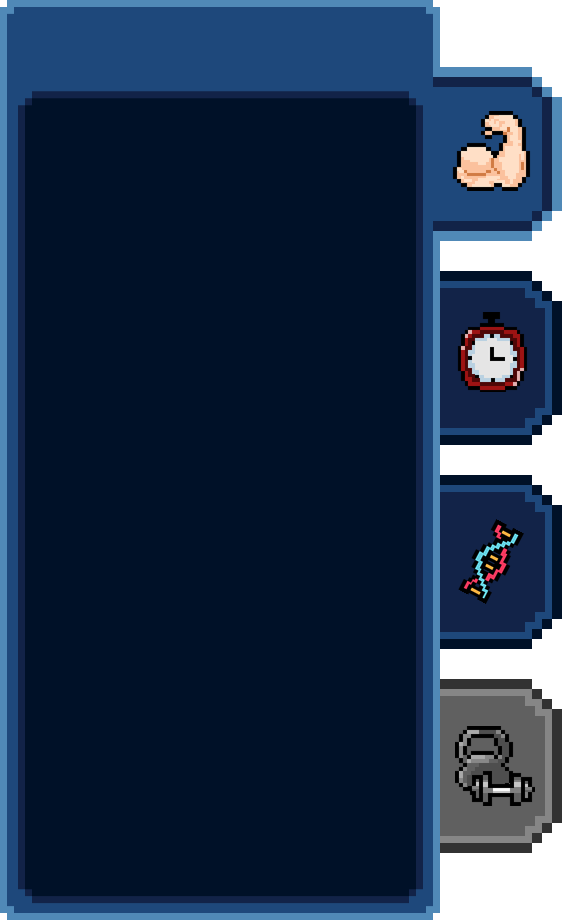
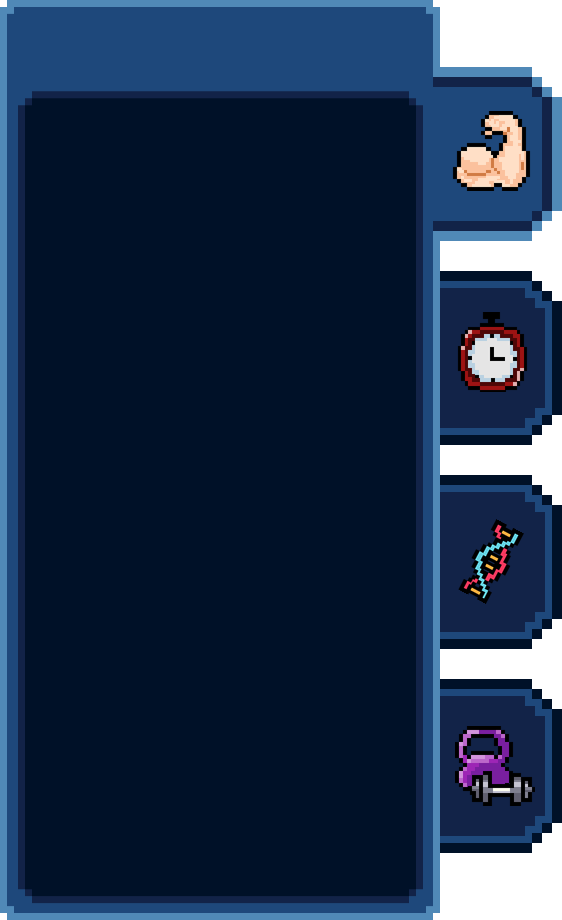
passive skill buy setup

Changed region(s): [[0.7562, 0.7304, 1.0, 0.9435]]

diff --git a/Assets/Scripts/UIController.cs b/Assets/Scripts/UIController.cs
@@ -167,6 +167,7 @@ public class UIController : MonoBehaviour
         {
             upgradeSection.RemoveFromClassList("idleActive");
             upgradeSection.RemoveFromClassList("resetActive");
+            upgradeSection.RemoveFromClassList("passiveActive");
             upgradeSection.AddToClassList("clickActive");
             upgradeSectionLabel.text = "Click Upgrades";
 
@@ -178,6 +179,7 @@ public class UIController : MonoBehaviour
         {
             upgradeSection.RemoveFromClassList("resetActive");
             upgradeSection.RemoveFromClassList("clickActive");
+            upgradeSection.RemoveFromClassList("passiveActive");
             upgradeSection.AddToClassList("idleActive");
             upgradeSectionLabel.text = "Idle Upgrades";
 
@@ -189,11 +191,24 @@ public class UIController : MonoBehaviour
         {
             upgradeSection.RemoveFromClassList("idleActive");
             upgradeSection.RemoveFromClassList("clickActive");
+            upgradeSection.RemoveFromClassList("passiveActive");
             upgradeSection.AddToClassList("resetActive");
             upgradeSectionLabel.text = "Reset Upgrades";
 
             ToggleUpgradePanel("reset");
             ShowScrollView(resetScrollView);
+        };
+
+        passiveSkillButton.clicked += () =>
+        {
+            upgradeSection.RemoveFromClassList("idleActive");
+            upgradeSection.RemoveFromClassList("clickActive");
+            upgradeSection.RemoveFromClassList("resetActive");
+            upgradeSection.AddToClassList("passiveActive");
+            upgradeSectionLabel.text = "Passive Skills";
+
+            ToggleUpgradePanel("passive");
+            ShowScrollView(passiveScrollView);
         };
 
         animatedLabel = root.Q<Label>("gain-label");
@@ -510,7 +525,7 @@ public class UIController : MonoBehaviour
 
     private RevealStage GetCurrentStage()
     {
-        if (resetCoin.Value > 0)
+        if (gameController.GetResetStage() >= 3)
         {
             return RevealStage.PassiveSkillUpgrades;
         }
@@ -899,9 +914,10 @@ public class UIController : MonoBehaviour
             {
                 Button = button,
                 PassiveSkill = passiveSkill,
+                Cost = passiveSkill.Price
             };
 
-            Label priceLabel = new Label() { name = "price" };
+            Label priceLabel = new Label() { name = "price", text = buttonInfo.Cost.ToString() };
             VisualElement details = new VisualElement() { name = "detailsPopup" };
 
             //skill's icon
@@ -1019,11 +1035,16 @@ public class UIController : MonoBehaviour
 
     private void PassiveSkillButtonClicked(ClickEvent clickEvent, UpgradeButtonInfo upgradeButtonInfo)
     {
-        //PassiveSkillBought derails = new()
-        //{
-        //    PassiveSkill = upgradeButtonInfo.PassiveSkill
-        //};
-        //passiveSkillBoughtEvent.Raise(details);
+        PassiveSkillBought details = new()
+        {
+            PassiveSkill = upgradeButtonInfo.PassiveSkill
+        };
+
+        passiveSkillBoughtEvent.Raise(details);
+        resetCoinLabel.text = $"{NumberFormatter.FormatNumber(resetCoin.Value)}";
+        //audioController.PlaySound(SfxType.PassiveSkillBuy);                                      -->SFX needed
+
+        passiveScrollView.contentContainer.Remove(upgradeButtonInfo.Button);
     }
 
     private double GetNextLevelsCost(Upgrade upgrade)
@@ -1110,7 +1131,10 @@ public class UIController : MonoBehaviour
 
     private void PassiveSkillButtonAvailability(UpgradeButtonInfo[] buttonInfos, LargeNumber resetCoin)
     {
-
+        foreach (UpgradeButtonInfo upgradeButtonInfo in buttonInfos)
+        {
+            upgradeButtonInfo?.Button.SetEnabled(upgradeButtonInfo.Cost <= NumberFormatter.RoundCalculatedNumber(resetCoin.Value));
+        }
     }
 
     private ProgressBar CreateIdleBar(Upgrade upgrade)
@@ -1167,6 +1191,11 @@ public class UIController : MonoBehaviour
         {
             resetScrollView.style.display = visibleScroll == resetScrollView ? DisplayStyle.Flex : DisplayStyle.None;
         }
+
+        if (passiveScrollView != null)
+        {
+            passiveScrollView.style.display = visibleScroll == passiveScrollView ? DisplayStyle.Flex : DisplayStyle.None;
+        }
     }
 
     // Panel animacions
@@ -1187,6 +1216,7 @@ public class UIController : MonoBehaviour
             upgradeSection.RemoveFromClassList("clickActive");
             upgradeSection.RemoveFromClassList("idleActive");
             upgradeSection.RemoveFromClassList("resetActive");
+            upgradeSection.RemoveFromClassList("passiveActive");
 
             return;
         }
@@ -1214,6 +1244,7 @@ public class UIController : MonoBehaviour
             "click" => clickScrollView,
             "idle" => idleScrollView,
             "reset" => resetScrollView,
+            "passive" => passiveScrollView,
             _ => throw new Exception($"Unexpected string {name} and for no good reason {isResetPressed}"),
         };
     }

diff --git a/Assets/Scripts/GameController.cs b/Assets/Scripts/GameController.cs
@@ -149,6 +149,17 @@ public class GameController : MonoBehaviour
         resetUpgrade.SetPurchased(true);
     }
 
+    public void OnPassiveSkillBought(IGameEventDetails details)
+    {
+        PassiveSkillBought passiveSkillBought = details as PassiveSkillBought;
+        PassiveSkill passiveSkill = passiveSkillBought.PassiveSkill;
+
+        if(resetCoin.Value >= passiveSkill.Price)
+        {
+            resetCoin.Value -= passiveSkill.Price;
+        }
+    }
+
     private void Reset()
     {
         gain.Value = 0;

diff --git a/Assets/Scripts/PassiveSkillBought.cs b/Assets/Scripts/PassiveSkillBought.cs
@@ -1,0 +1,6 @@
+using UnityEngine;
+
+public class PassiveSkillBought : IGameEventDetails
+{
+    public PassiveSkill PassiveSkill;
+}
